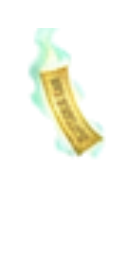
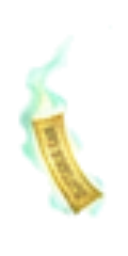
fix: preserve qinglan talisman bounds

Changed region(s): [[0.125, 0.0938, 0.8438, 0.8438]]

diff --git a/tools/vfx-system.test.ts b/tools/vfx-system.test.ts
@@ -104,6 +104,62 @@ function readPng(path: string): {
   };
 }
 
+function parseAtlasFrame(path: string, frameName: string): { x: number; y: number; width: number; height: number } {
+  const lines = readFileSync(path, 'utf8').split(/\r?\n/);
+  const frameIndex = lines.findIndex((line) => line.trim() === frameName);
+  assert.ok(frameIndex >= 0, `missing atlas frame ${frameName}`);
+  const xy = /^xy:\s*(\d+),\s*(\d+)$/.exec(lines[frameIndex + 2]?.trim() ?? '');
+  const size = /^size:\s*(\d+),\s*(\d+)$/.exec(lines[frameIndex + 3]?.trim() ?? '');
+  assert.ok(xy && size, `invalid atlas geometry for ${frameName}`);
+  return { x: Number(xy[1]), y: Number(xy[2]), width: Number(size[1]), height: Number(size[2]) };
+}
+
+function alphaConnectedBounds(
+  image: ReturnType<typeof readPng>,
+  startX: number,
+  startY: number,
+  threshold: number,
+): { left: number; top: number; right: number; bottom: number } {
+  assert.ok(image.alphaAt(startX, startY) >= threshold, 'talisman component seed must be opaque');
+  const queued = new Set([`${startX},${startY}`]);
+  const visited = new Set<string>();
+  let left = startX;
+  let top = startY;
+  let right = startX;
+  let bottom = startY;
+  while (queued.size > 0) {
+    const key = queued.values().next().value as string;
+    queued.delete(key);
+    if (visited.has(key)) continue;
+    visited.add(key);
+    const [x, y] = key.split(',').map(Number);
+    if (image.alphaAt(x, y) < threshold) continue;
+    left = Math.min(left, x);
+    top = Math.min(top, y);
+    right = Math.max(right, x);
+    bottom = Math.max(bottom, y);
+    for (const [nextX, nextY] of [[x - 1, y], [x + 1, y], [x, y - 1], [x, y + 1]]) {
+      if (nextX >= 0 && nextX < image.width && nextY >= 0 && nextY < image.height) {
+        queued.add(`${nextX},${nextY}`);
+      }
+    }
+  }
+  return { left, top, right, bottom };
+}
+
+function findOpaquePixel(
+  image: ReturnType<typeof readPng>,
+  bounds: { left: number; top: number; right: number; bottom: number },
+  threshold: number,
+): { x: number; y: number } {
+  for (let y = bounds.top; y <= bounds.bottom; y += 1) {
+    for (let x = bounds.left; x <= bounds.right; x += 1) {
+      if (image.alphaAt(x, y) >= threshold) return { x, y };
+    }
+  }
+  assert.fail('talisman bounds must contain an opaque pixel');
+}
+
 runTest('vfx presets map every battle role to a distinct readable element', () => {
   assert.equal(resolveAttackVfxPreset({ source: 'main' }).id, 'main_fire_gold');
   assert.equal(resolveAttackVfxPreset({ source: 'companion' }).id, 'thunder');
@@ -296,7 +352,38 @@ runTest('authored v2 v3 and v4 textures keep alpha, metadata and manifest entrie
   const crop = /const CROP = \{ x: (\d+), y: (\d+), width: (\d+), height: (\d+) \};/.exec(
     qinglanExtractor,
   );
-  assert.deepEqual(crop?.slice(1).map(Number), [44, 92, 45, 70]);
+  assert.ok(crop, 'Qinglan extractor must declare a crop');
+  const [cropX, cropY, cropWidth, cropHeight] = crop.slice(1).map(Number);
+  const source = readPng('assets/resources/spine/hero_qinglan/hero_qinglan.png');
+  const frame = parseAtlasFrame('assets/resources/spine/hero_qinglan/hero_qinglan.atlas', 'frame_0');
+  const alphaThreshold = 16;
+  const alphaAtCrop = (x: number, y: number): number => source.alphaAt(frame.x + cropX + x, frame.y + cropY + y);
+  for (let x = 0; x < cropWidth; x += 1) {
+    assert.ok(alphaAtCrop(x, 0) < alphaThreshold, 'talisman crop top edge must be transparent');
+    assert.ok(alphaAtCrop(x, cropHeight - 1) < alphaThreshold, 'talisman crop bottom edge must be transparent');
+  }
+  for (let y = 0; y < cropHeight; y += 1) {
+    assert.ok(alphaAtCrop(0, y) < alphaThreshold, 'talisman crop left edge must be transparent');
+    assert.ok(alphaAtCrop(cropWidth - 1, y) < alphaThreshold, 'talisman crop right edge must be transparent');
+  }
+  const talismanSeed = findOpaquePixel(
+    source,
+    { left: frame.x + 54, top: frame.y + 81, right: frame.x + 80, bottom: frame.y + 137 },
+    alphaThreshold,
+  );
+  const talismanBounds = alphaConnectedBounds(
+    source,
+    talismanSeed.x,
+    talismanSeed.y,
+    alphaThreshold,
+  );
+  assert.deepEqual(
+    talismanBounds,
+    { left: frame.x + 54, top: frame.y + 81, right: frame.x + 80, bottom: frame.y + 137 },
+  );
+  assert.ok(cropX < 54 && cropY < 81, 'talisman crop must include transparent top-left padding');
+  assert.ok(cropX + cropWidth - 1 > 80 && cropY + cropHeight - 1 > 137, 'talisman crop must include transparent bottom-right padding');
+  assert.deepEqual([cropX, cropY, cropWidth, cropHeight], [48, 75, 40, 70]);
 });
 
 runTest('runtime vfx system owns pooled particle lifecycle and additive blending', () => {